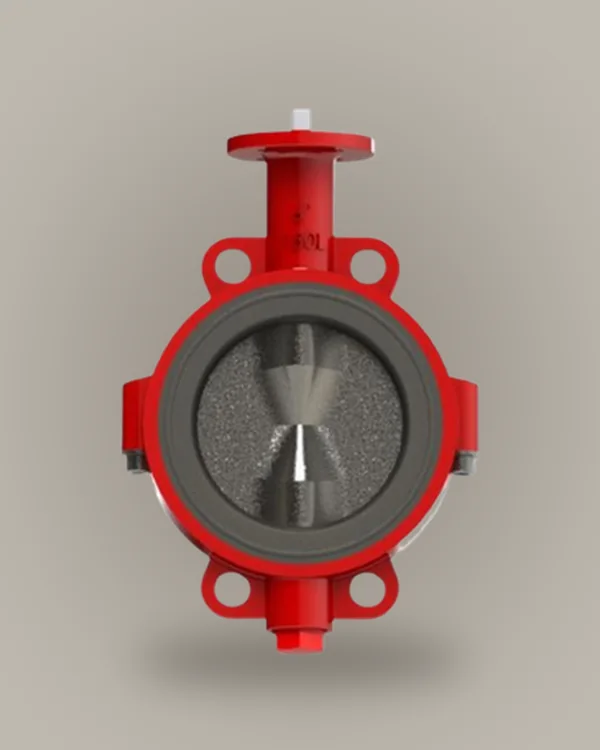
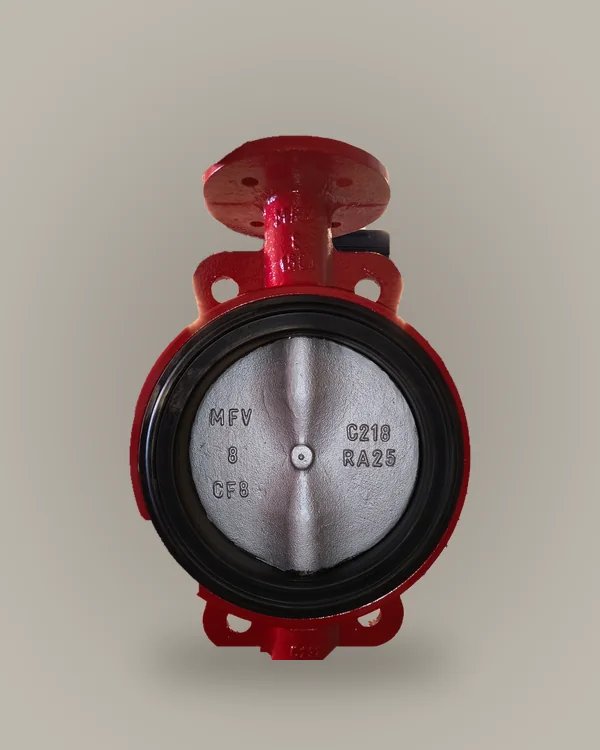
feat: fotos reais da concêntrica e da retenção dupla porta no estúdio
- recorte do fundo das fotos (GrabCut e silhueta por cor) e composição no mesmo estúdio
- borboleta concêntrica troca o desenho pela foto real
- retenção dupla porta ganha cartão próprio com foto; sétimo cartão centralizado

Claude-Session: https://claude.ai/code/session_013ZMvq2bHW9JtzL1E6y2RJy

Changed region(s): [[0.18, 0.1227, 0.81, 0.8893]]

diff --git a/index.html b/index.html
@@ -10,8 +10,8 @@
   <link rel="preconnect" href="https://fonts.googleapis.com" />
   <link rel="preconnect" href="https://fonts.gstatic.com" crossorigin />
   <link href="https://fonts.googleapis.com/css2?family=Barlow+Condensed:wght@500;600;700&family=Barlow:wght@400;500;600&display=swap" rel="stylesheet" />
-  <link rel="stylesheet" href="css/style.css?v=20261101e" />
-  <link rel="stylesheet" href="css/movimento.css?v=20261101e" />
+  <link rel="stylesheet" href="css/style.css?v=20261101f" />
+  <link rel="stylesheet" href="css/movimento.css?v=20261101f" />
   <script>
     // Se main.js não carregar em 3 s, devolve o conteúdo sem as entradas animadas.
     document.documentElement.classList.add("js");
@@ -115,7 +115,7 @@
           </div>
         </article>
         <article class="produto reveal" id="item-concentrica" data-produto="Válvula Borboleta Concêntrica">
-          <picture class="produto-img"><source srcset="img/estudio/concentrica.webp" type="image/webp" /><img src="img/estudio/concentrica.jpg" alt="Válvula borboleta concêntrica wafer vermelha" width="600" height="750" loading="lazy" /></picture>
+          <picture class="produto-img"><source srcset="img/estudio/concentrica.webp" type="image/webp" /><img src="img/estudio/concentrica.jpg" alt="Válvula borboleta concêntrica wafer vermelha com sede em elastômero preto e disco em inox CF8" width="600" height="750" loading="lazy" /></picture>
           <div class="produto-info">
             <h3>Borboleta concêntrica</h3>
             <ul class="produto-chaves"><li>2" a 40"</li><li>API 609</li><li>wafer e semi-lug</li></ul>
@@ -123,6 +123,19 @@
               <summary>Especificações</summary>
               <p>Construção conforme API 609.</p>
               <dl class="specs"><div><dt>Monobloco</dt><dd>2" a 40"</dd></div><div><dt>Bipartida</dt><dd>2" a 24"</dd></div><div><dt>Corpo e disco</dt><dd>Ferro nodular, aço-carbono ou inox</dd></div><div><dt>Eixo</dt><dd>AISI 410, 304 ou 316</dd></div></dl>
+            </details>
+            <button type="button" class="btn btn--small js-orcar">Orçar este item</button>
+          </div>
+        </article>
+        <article class="produto reveal" id="item-retencao" data-produto="Válvula de Retenção">
+          <picture class="produto-img"><source srcset="img/estudio/retencao.webp" type="image/webp" /><img src="img/estudio/retencao.jpg" alt="Válvula de retenção dupla porta wafer, corpo vermelho e sede magenta, com a mola e o eixo à mostra" width="600" height="750" loading="lazy" /></picture>
+          <div class="produto-info">
+            <h3>Retenção dupla porta</h3>
+            <ul class="produto-chaves"><li>2" a 40"</li><li>ASME Classe 150</li><li>10 °C a 400 °C</li></ul>
+            <details>
+              <summary>Especificações</summary>
+              <p>Wafer de dupla porta com mola, para evitar refluxo em bombeamento e processo: químicos, vapor, óleo e água.</p>
+              <dl class="specs"><div><dt>Corpo</dt><dd>Ferro fundido, aço-carbono, inox</dd></div><div><dt>Sede</dt><dd>EPDM, Buna, Viton, metal</dd></div></dl>
             </details>
             <button type="button" class="btn btn--small js-orcar">Orçar este item</button>
           </div>
@@ -182,22 +195,6 @@
       </div>
       <div class="outros">
         <h3>Também fornecemos</h3>
-        <details class="item" id="item-retencao" data-produto="Válvula de Retenção">
-          <summary>Retenção</summary>
-          <div class="item-body">
-            <p>Evita refluxo em sistemas de bombeamento e processo: químicos, vapor, óleo e água.</p>
-            <dl class="specs">
-              <div><dt>Diâmetros</dt><dd>2" a 40"</dd></div>
-              <div><dt>Classe de pressão</dt><dd>ASME 150</dd></div>
-              <div><dt>Temperatura</dt><dd>10 °C a 400 °C</dd></div>
-              <div><dt>Corpo</dt><dd>Ferro fundido, aço-carbono, inox</dd></div>
-              <div><dt>Sede</dt><dd>EPDM, Buna, Viton, metal</dd></div>
-            </dl>
-            <div class="item-actions">
-              <button type="button" class="btn btn--small js-orcar">Orçar este item</button>
-            </div>
-          </div>
-        </details>
         <details class="item" data-produto="Atuador Pneumático">
           <summary>Atuador pneumático</summary>
           <div class="item-body">
@@ -738,11 +735,11 @@
     <svg viewBox="0 0 24 24" width="28" height="28" aria-hidden="true"><path fill="currentColor" d="M12 2a10 10 0 0 0-8.6 15.1L2 22l5-1.3A10 10 0 1 0 12 2Zm0 18.2a8.2 8.2 0 0 1-4.2-1.2l-.3-.2-3 .8.8-2.9-.2-.3A8.2 8.2 0 1 1 12 20.2Zm4.5-6.1c-.2-.1-1.5-.7-1.7-.8s-.4-.1-.6.1-.6.8-.8 1-.3.2-.5 0a6.7 6.7 0 0 1-3.3-2.9c-.3-.4.2-.4.6-1.3a.4.4 0 0 0 0-.4l-.8-1.9c-.2-.5-.4-.4-.6-.4h-.5a1 1 0 0 0-.7.3 3 3 0 0 0-.9 2.2 5.2 5.2 0 0 0 1.1 2.7 11.8 11.8 0 0 0 4.5 4c1.7.7 2.3.8 3.2.6a2.7 2.7 0 0 0 1.8-1.3 2.2 2.2 0 0 0 .2-1.2c-.1-.2-.3-.3-.6-.4Z"/></svg>
   </a>
 
-  <script src="js/engenharia.js?v=20261101e"></script>
-  <script src="js/whatsapp.js?v=20261101e"></script>
-  <script src="js/interativo.js?v=20261101e"></script>
-  <script src="js/main.js?v=20261101e"></script>
+  <script src="js/engenharia.js?v=20261101f"></script>
+  <script src="js/whatsapp.js?v=20261101f"></script>
+  <script src="js/interativo.js?v=20261101f"></script>
+  <script src="js/main.js?v=20261101f"></script>
   <script src="js/vendor/motion-14.3.0.min.js"></script>
-  <script src="js/movimento.js?v=20261101e"></script>
+  <script src="js/movimento.js?v=20261101f"></script>
 </body>
 </html>

diff --git a/tests/content.test.js b/tests/content.test.js
@@ -46,10 +46,11 @@ const check = (ok, msg) => { if (!ok) { failures++; console.log('FAIL', msg); } 
   for (const nome of ['Usina Caeté', 'Usina Santa Isabel', 'Usina Santa Fé', 'ADM do Brasil', 'Usiminas', 'Ball']) {
     check(text.includes(nome), `cliente "${nome}" ausente`);
   }
-  for (const produto of ['Borboleta bi‑excêntrica', 'Borboleta concêntrica', 'Esfera segmentada', 'Guilhotina', 'Gaveta e globo', 'Pressure seal']) {
+  for (const produto of ['Borboleta bi‑excêntrica', 'Borboleta concêntrica', 'Retenção dupla porta', 'Esfera segmentada', 'Guilhotina', 'Gaveta e globo', 'Pressure seal']) {
     check(await page.locator(`.produto h3:has-text("${produto}")`).count() === 1, `produto "${produto}" ausente da linha`);
   }
-  check(await page.locator('.outros summary:has-text("Retenção")').count() === 1, 'retenção ausente de "outros"');
+  check(await page.locator('#item-retencao img[src*="estudio/retencao"]').count() === 1, 'retenção sem foto no estúdio');
+  check(await page.locator('.outros summary:has-text("Retenção")').count() === 0, 'retenção repetida em "outros"');
   // enxugado: sem faixa de clientes, radar, recibo, linhas gigantes de contato e marcador da abertura
   for (const sel of ['.segments-band', '.map-radar', '.slip', '.contact-rows', '#valvula-abertura', '.rail-track', '.catalog-section']) {
     check(await page.locator(sel).count() === 0, `${sel} deveria ter saído`);
@@ -57,7 +58,7 @@ const check = (ok, msg) => { if (!ok) { failures++; console.log('FAIL', msg); } 
   // um só estilo de botão principal e nenhum "quadrado" em volta das imagens de produto
   check(await page.locator('.btn--dark').count() === 0, 'ainda há botão .btn--dark');
   const imgsProduto = await page.$$eval('.produto img, .tech-render img', (i) => i.map((x) => x.getAttribute('src')));
-  check(imgsProduto.length >= 7 && imgsProduto.every((src) => src.startsWith('img/estudio/')), `imagens de produto fora do estúdio: ${imgsProduto}`);
+  check(imgsProduto.length >= 8 && imgsProduto.every((src) => src.startsWith('img/estudio/')), `imagens de produto fora do estúdio: ${imgsProduto}`);
   check(text.includes('24 anos'), 'tempo de experiência ausente');
   for (const t of ['válvulas condicionadoras de vapor', 'válvulas redutoras de pressão', 'válvulas automáticas', 'Hiter', 'Foxwall']) {
     check(text.toLowerCase().includes(t.toLowerCase()), `manutenção especializada sem "${t}"`);

diff --git a/css/style.css b/css/style.css
@@ -268,7 +268,10 @@ button, input, select, textarea { font: inherit; color: inherit; }
 .produtos { padding: var(--section) var(--gutter); }
 .produtos-head { display: flex; flex-wrap: wrap; align-items: flex-end; justify-content: space-between; gap: 16px 48px; margin-bottom: 48px; }
 .produtos-head p { max-width: 44ch; color: var(--muted); }
-.produtos-grid { display: grid; grid-template-columns: repeat(3, 1fr); gap: var(--gutter); }
+.produtos-grid { display: grid; grid-template-columns: repeat(6, 1fr); gap: var(--gutter); }
+.produtos-grid > .produto { grid-column: span 2; }
+/* 7 produtos: a última linha fica centralizada */
+.produtos-grid > .produto:last-child:nth-child(3n + 1) { grid-column: 3 / span 2; }
 .produto { display: grid; grid-template-rows: auto 1fr; background: var(--bg-2); }
 .produto-img { display: block; aspect-ratio: 4 / 5; overflow: hidden; background: var(--paper); }
 .produto-img img { width: 100%; height: 100%; object-fit: cover; transition: transform 0.5s var(--ease); }
@@ -287,7 +290,11 @@ button, input, select, textarea { font: inherit; color: inherit; }
 .produto details > p { color: var(--muted); max-width: 58ch; }
 .produto details .link-arrow { margin-top: 14px; }
 .produto .btn { justify-self: start; }
-@media (max-width: 1000px) { .produtos-grid { grid-template-columns: repeat(2, 1fr); } }
+@media (max-width: 1000px) {
+  .produtos-grid { grid-template-columns: repeat(4, 1fr); }
+  .produtos-grid > .produto:last-child:nth-child(3n + 1) { grid-column: span 2; }
+  .produtos-grid > .produto:last-child:nth-child(odd) { grid-column: 2 / span 2; }
+}
 
 /* ---------- Também fornecemos (retenção e acessórios) ---------- */
 .outros { max-width: 760px; margin-top: clamp(64px, 8vw, 112px); }
@@ -820,6 +827,8 @@ legend { padding: 0; margin-bottom: 12px; font-weight: 600; }
 @media (max-width: 600px) {
   /* celular: produtos em duas colunas, cartão compacto */
   .produtos-grid { grid-template-columns: 1fr 1fr; gap: 8px; }
+  .produtos-grid > .produto { grid-column: auto; }
+  .produtos-grid > .produto:last-child:nth-child(odd) { grid-column: 1 / -1; justify-self: center; width: calc(50% - 4px); }
   .produto-info { padding: 14px 12px 16px; gap: 10px; }
   .produto-info h3 { font-size: 1.25rem; }
   .produto-chaves { flex-direction: column; gap: 2px; font-size: var(--step-small); }

diff --git a/js/interativo.js b/js/interativo.js
@@ -74,7 +74,7 @@
   var cfg = $('#configurador');
   if (cfg && E) {
     var IMGS = {
-      bi: 'bi-excentrica', concentrica: 'concentrica', retencao: null, gaveta: 'gaveta-globo',
+      bi: 'bi-excentrica', concentrica: 'concentrica', retencao: 'retencao', gaveta: 'gaveta-globo',
       pressureseal: 'pressure-seal', esfera: 'esfera', guilhotina: 'guilhotina',
     };
     var sel = {};

diff --git a/scripts/estudio.py b/scripts/estudio.py
@@ -100,6 +100,13 @@ def render_no_estudio(render_path, w, h):
     return compor(recortar_render(render_path), w, h, altura=0.8)
 
 
+# fotos reais já recortadas do fundo (PNG com transparência), por nome de saída
+FOTOS = {
+    "concentrica": "concentrica.png",
+    "retencao": "retencao.png",
+}
+
+
 def salvar(img, nome):
     img.save(OUT / f"{nome}.webp", "WEBP", quality=84, method=6)
     img.save(OUT / f"{nome}.jpg", "JPEG", quality=84, optimize=True, progressive=True)
@@ -110,6 +117,10 @@ def main(midia, render):
     OUT.mkdir(parents=True, exist_ok=True)
     for nome, arquivo in RECORTES.items():
         salvar(compor(Image.open(Path(midia) / arquivo).convert("RGBA")), nome)
+    recortes = Path(midia).parent.parent.parent.parent / "recortes"
+    for nome, arquivo in FOTOS.items():
+        if (recortes / arquivo).exists():
+            salvar(compor(Image.open(recortes / arquivo).convert("RGBA"), altura=0.7), nome)
     salvar(render_no_estudio(render, 600, 750), "bi-excentrica")
     salvar(render_no_estudio(render, 720, 1080), "bi-excentrica-alta")
 
